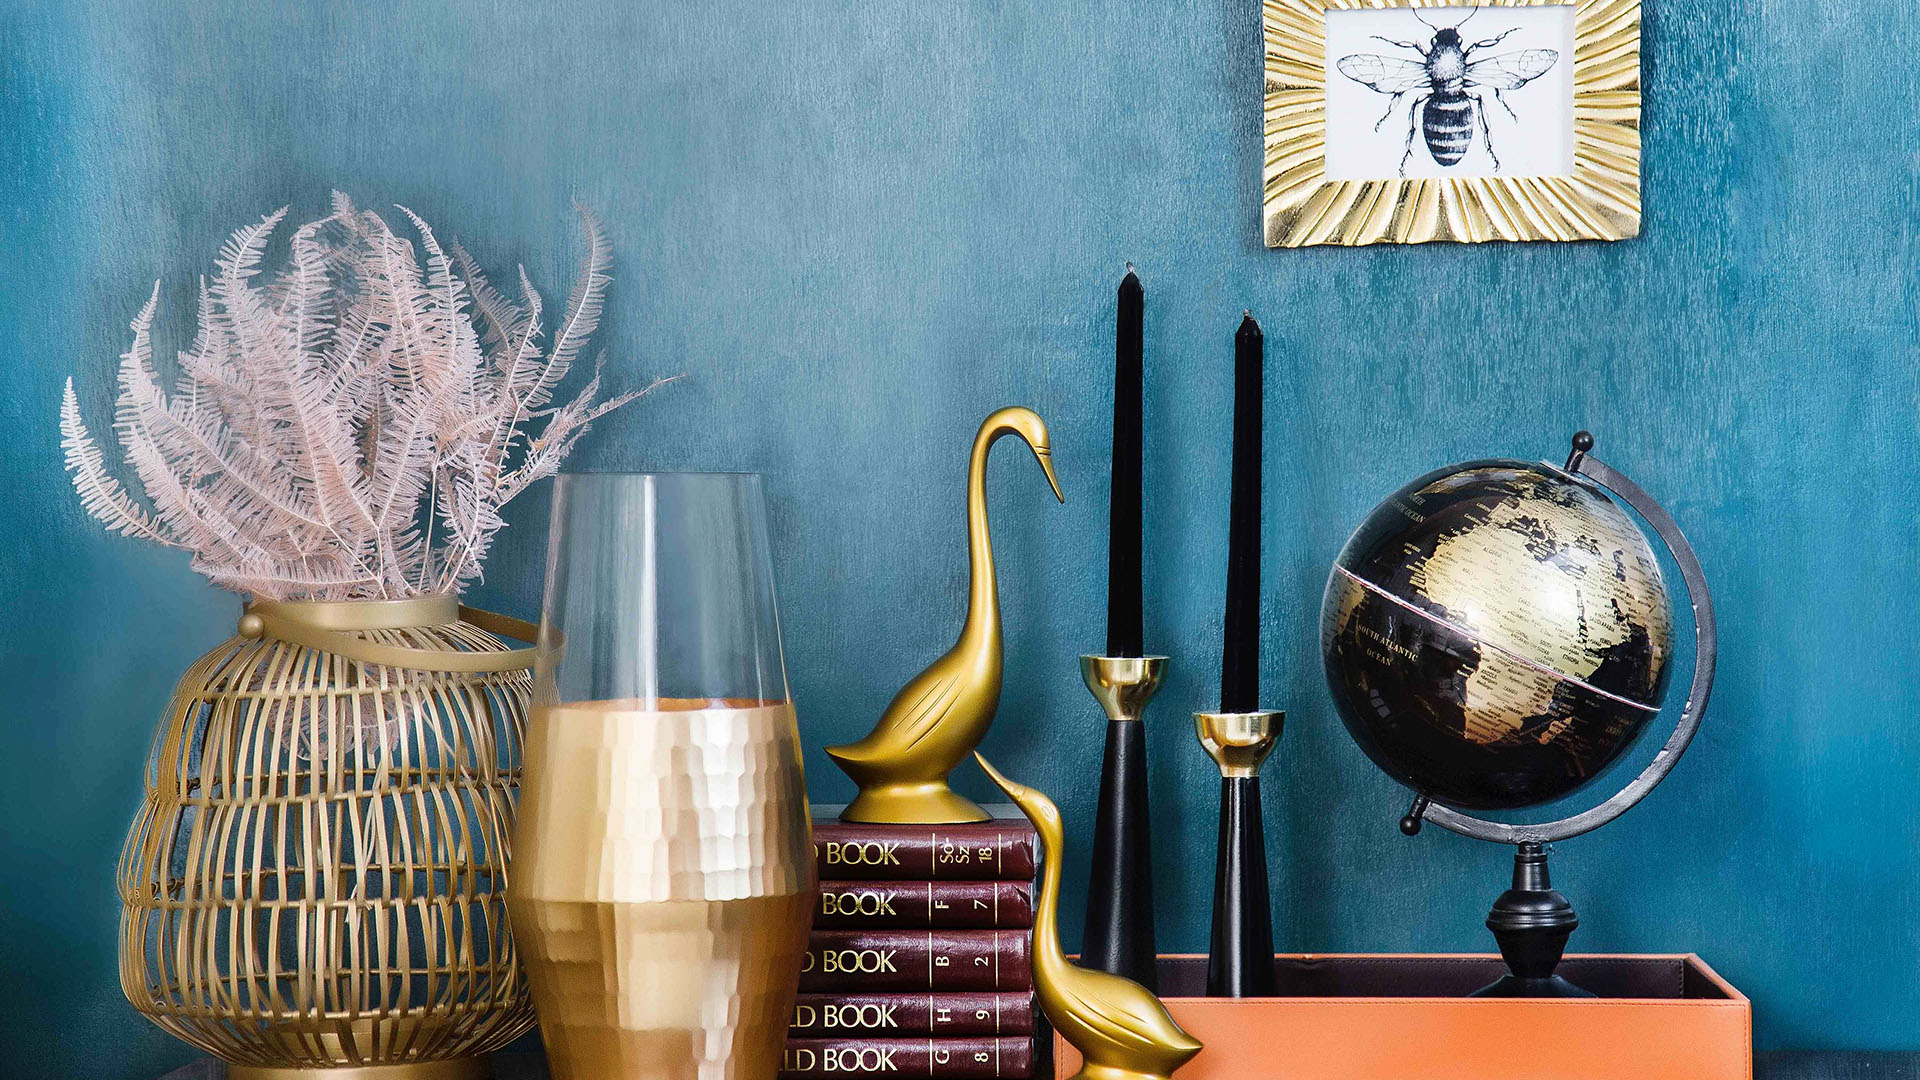
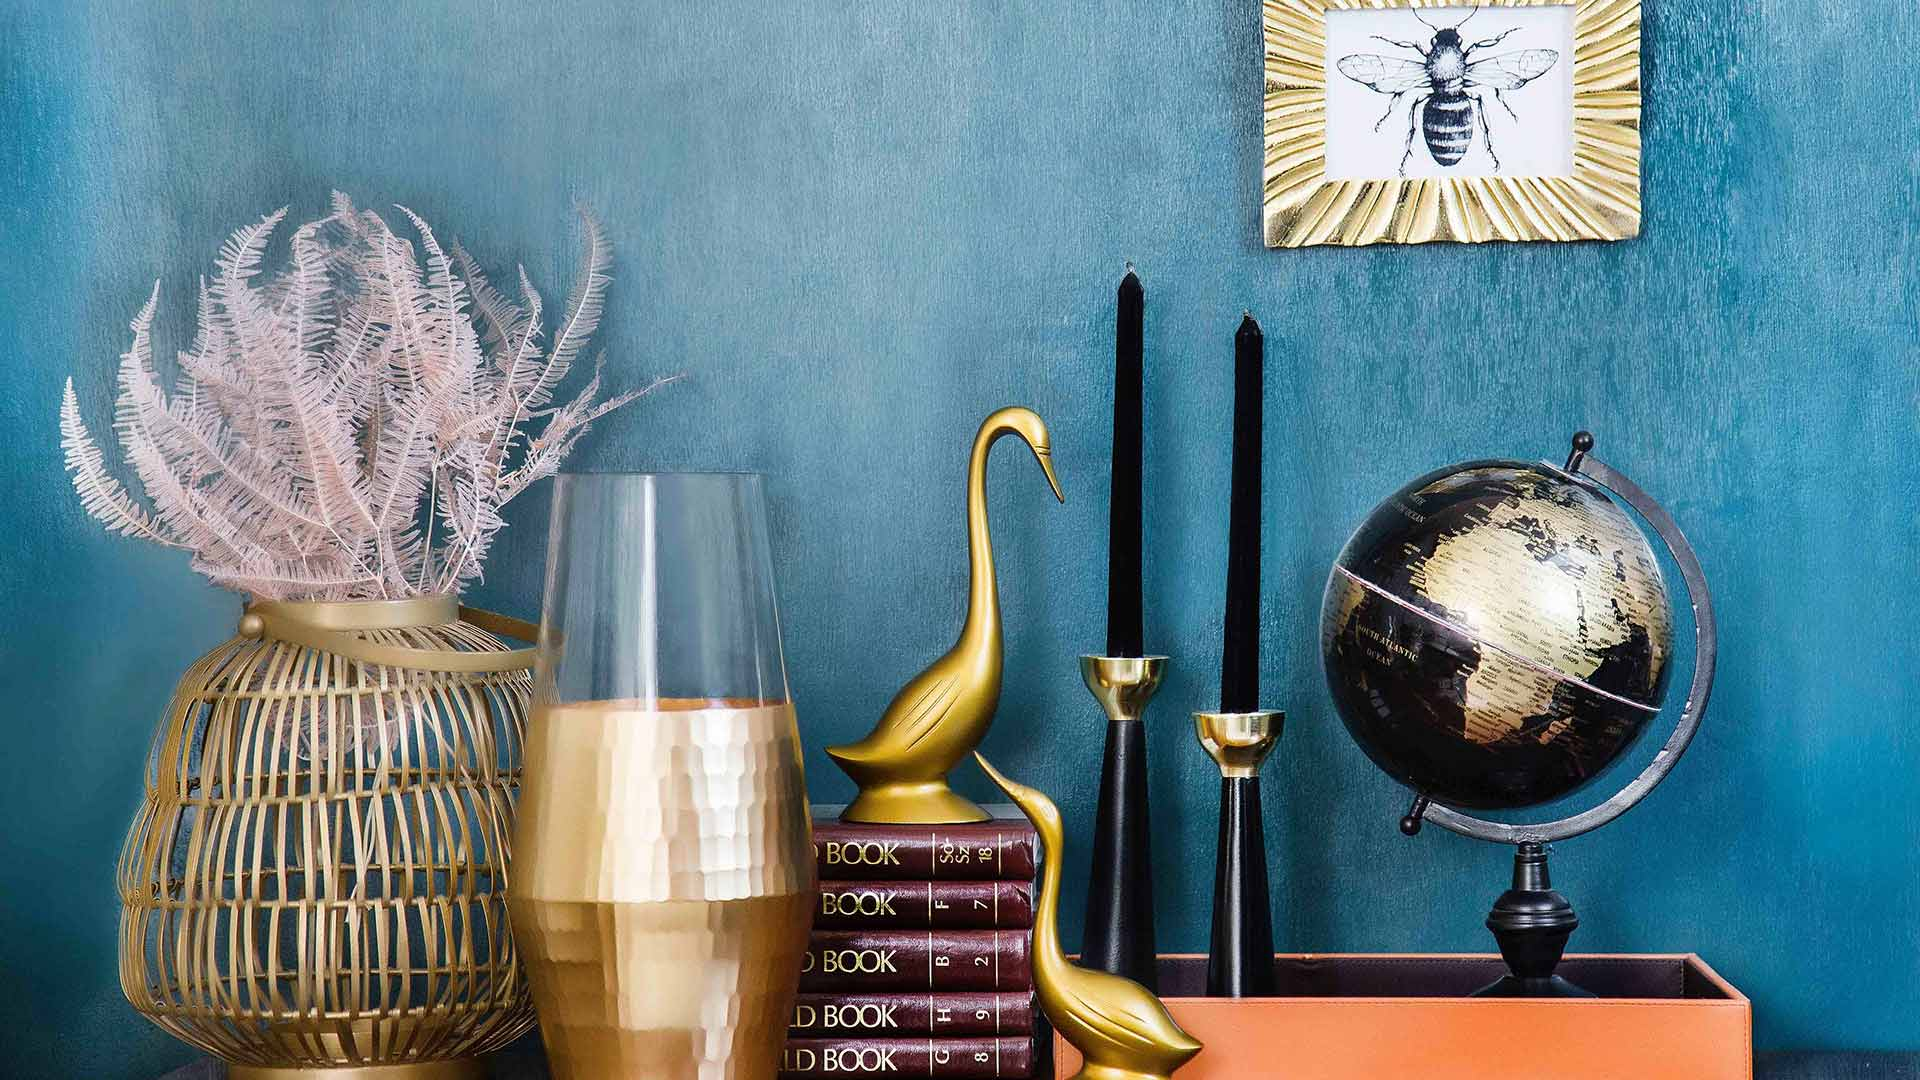
Menor peso en imágenes

diff --git a/src/views/Home.vue b/src/views/Home.vue
@@ -100,7 +100,7 @@
             </p>
           </div>
           <div class="col-5">
-            <img src="../assets/images/salon.jpg" alt="" style="width: 100%">
+            <img src="../assets/images/camadormitorio.jpg" alt="" style="width: 100%">
           </div>
         </div>
       </div>
